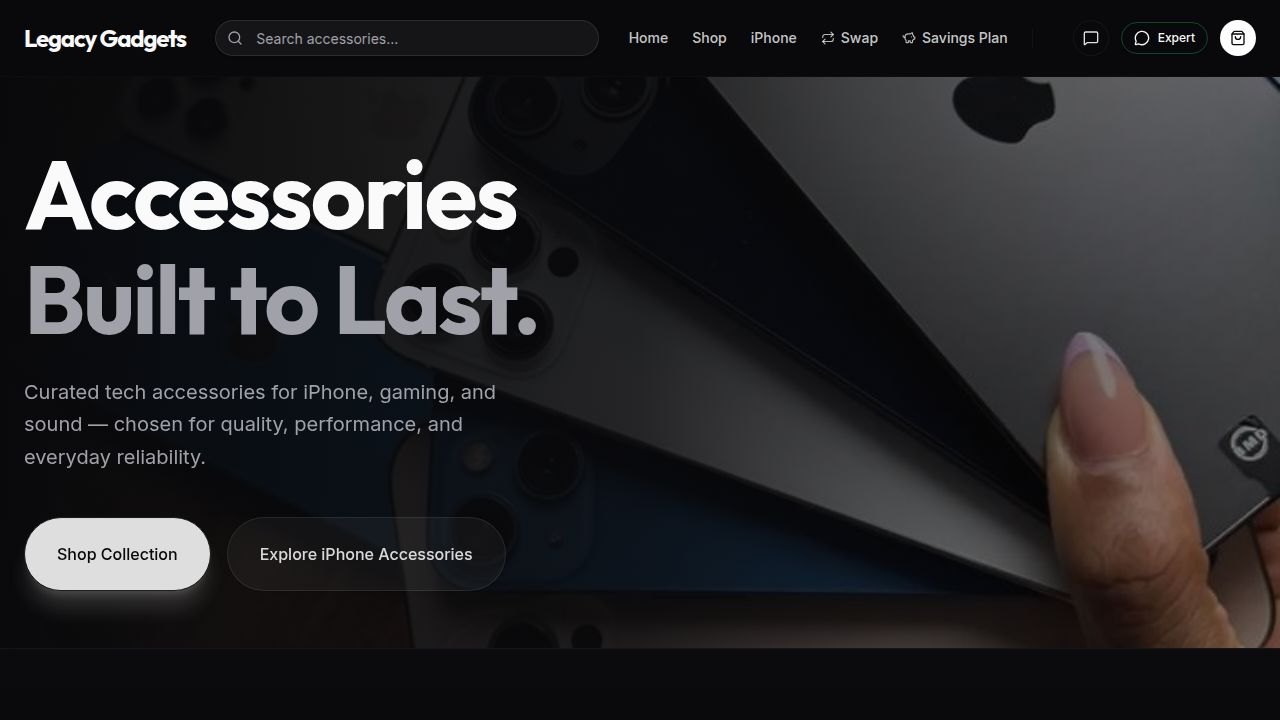
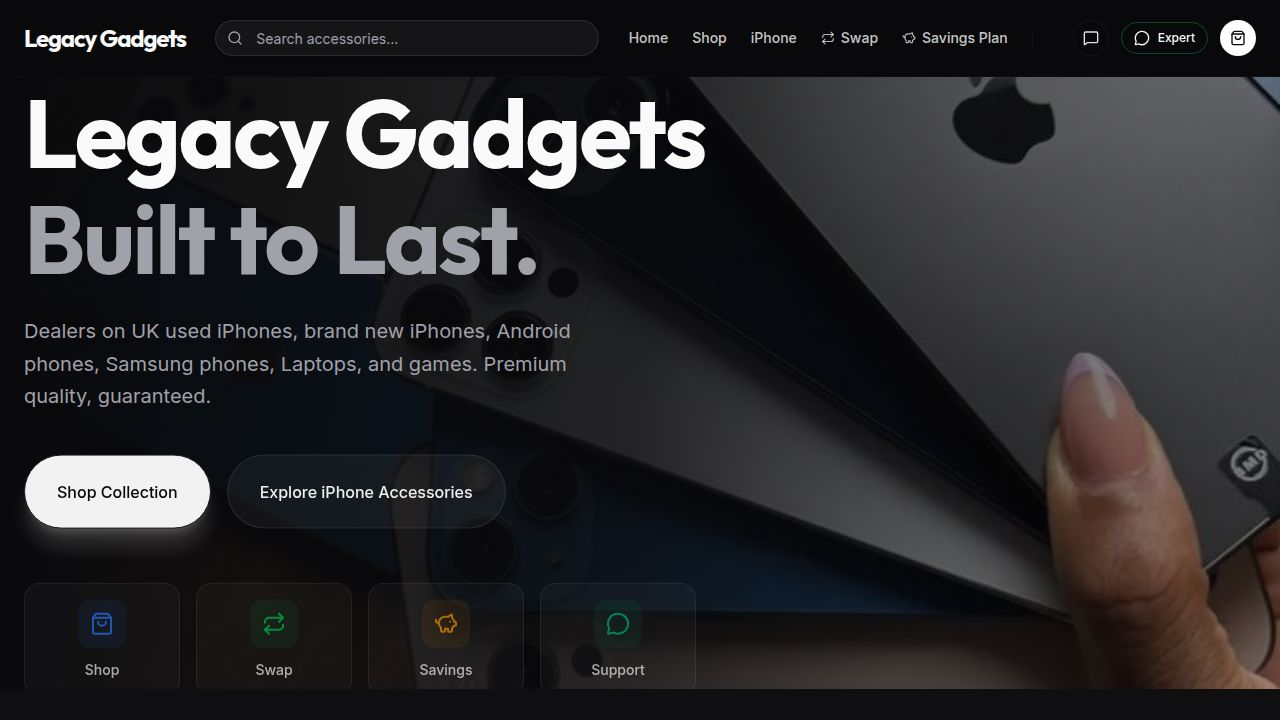
Update website with new product catalog and repair services
Integrates "Legacy Gadget'x" branding and product offerings, including new categories for Smartphones, Laptops, and Games. Adds a dedicated "Legacy iRepairs" section detailing various repair services like screen, battery, charging IC, water damage, and connectivity fixes, along with a direct booking link. Updates the hero section to reflect the expanded product range and reorders homepage elements to place product categories and repair services prominently.

Replit-Commit-Author: Agent
Replit-Commit-Session-Id: d1ffd576-3df7-4dd1-b622-f8f9161c872e
Replit-Commit-Checkpoint-Type: full_checkpoint
Replit-Commit-Event-Id: f8918ec3-b8af-4d76-9b86-5171d2bc4b19
Replit-Commit-Screenshot-Url: https://storage.googleapis.com/screenshot-production-us-central1/31b71921-33f8-4983-a66c-254fb14f6e3a/d1ffd576-3df7-4dd1-b622-f8f9161c872e/qRa5Evk
Replit-Helium-Checkpoint-Created: true

diff --git a/client/src/components/home/IRepairs.tsx b/client/src/components/home/IRepairs.tsx
@@ -1,0 +1,79 @@
+import { motion } from "framer-motion";
+import { CheckCircle2, Wrench, Zap, Thermometer, Droplets, Wifi } from "lucide-react";
+
+export function IRepairs() {
+  const services = [
+    { 
+      title: "Screen & Battery", 
+      desc: "Original quality screen, battery, camera & back glass replacement.",
+      icon: Wrench 
+    },
+    { 
+      title: "Charging IC", 
+      desc: "Expert repair for iPhones that won't charge or have power issues.",
+      icon: Zap 
+    },
+    { 
+      title: "Boot Issues", 
+      desc: "Stuck on Apple logo or dead device recovery services.",
+      icon: CheckCircle2 
+    },
+    { 
+      title: "Overheating", 
+      desc: "Diagnosis and fix for devices running unusually hot.",
+      icon: Thermometer 
+    },
+    { 
+      title: "Water Damage", 
+      desc: "Advanced cleaning and component repair for liquid exposure.",
+      icon: Droplets 
+    },
+    { 
+      title: "Connectivity", 
+      desc: "Repair for No Network, Wi-Fi, or Bluetooth connectivity problems.",
+      icon: Wifi 
+    },
+  ];
+
+  return (
+    <section className="py-24 bg-zinc-950 text-white relative overflow-hidden">
+      <div className="container mx-auto px-4 relative z-10">
+        <div className="text-center max-w-3xl mx-auto mb-16">
+          <h2 className="text-primary font-bold tracking-widest text-sm uppercase mb-4">Legacy iRepairs</h2>
+          <h3 className="text-4xl md:text-5xl font-heading font-bold mb-6">Expert Device Restoration</h3>
+          <p className="text-zinc-400 text-lg">
+            Don't let a broken device slow you down. Our certified technicians handle everything from simple screen swaps to complex motherboard repairs.
+          </p>
+        </div>
+
+        <div className="grid grid-cols-1 md:grid-cols-2 lg:grid-cols-3 gap-6">
+          {services.map((service, index) => (
+            <motion.div 
+              key={index}
+              initial={{ opacity: 0, y: 20 }}
+              whileInView={{ opacity: 1, y: 0 }}
+              viewport={{ once: true }}
+              transition={{ delay: index * 0.1 }}
+              className="p-8 rounded-2xl bg-white/5 border border-white/10 hover:border-primary/50 transition-colors group"
+            >
+              <div className="w-12 h-12 rounded-xl bg-primary/10 flex items-center justify-center mb-6 group-hover:scale-110 transition-transform">
+                <service.icon className="text-primary w-6 h-6" />
+              </div>
+              <h4 className="text-xl font-bold mb-3">{service.title}</h4>
+              <p className="text-zinc-400 leading-relaxed">{service.desc}</p>
+            </motion.div>
+          ))}
+        </div>
+
+        <div className="mt-16 text-center">
+          <a href="https://wa.me/1234567890" className="inline-flex items-center gap-2 bg-primary text-primary-foreground px-8 py-4 rounded-full font-bold hover:opacity-90 transition-opacity">
+            Book a Repair Now
+          </a>
+        </div>
+      </div>
+      
+      {/* Background decoration */}
+      <div className="absolute -top-24 -right-24 w-96 h-96 bg-primary/10 rounded-full blur-[120px] pointer-events-none" />
+    </section>
+  );
+}

diff --git a/client/src/components/home/Hero.tsx b/client/src/components/home/Hero.tsx
@@ -41,9 +41,9 @@ export function Hero() {
             initial={{ opacity: 0, y: 20 }}
             animate={{ opacity: 1, y: 0 }}
             transition={{ duration: 0.6, delay: 0.2 }}
-            className="text-lg md:text-xl text-muted-foreground mb-10 max-w-lg leading-relaxed"
+            className="text-lg md:text-xl text-muted-foreground mb-10 max-w-xl leading-relaxed"
           >
-            Curated tech accessories for iPhone, gaming, and sound — chosen for quality, performance, and everyday reliability.
+            Dealers on UK used iPhones, brand new iPhones, Android phones, Samsung phones, Laptops, and games. Premium quality, guaranteed.
           </motion.p>
 
           <motion.div 

diff --git a/client/src/pages/Home.tsx b/client/src/pages/Home.tsx
@@ -8,6 +8,7 @@ import { BrandValues } from "@/components/home/BrandValues";
 import { AccessoryFinder } from "@/components/home/AccessoryFinder";
 import { PersonalizedRecommendations } from "@/components/home/PersonalizedRecommendations";
 import { galleryImages } from "@/lib/data";
+import { IRepairs } from "@/components/home/IRepairs";
 
 function Gallery() {
   return (
@@ -33,9 +34,10 @@ export default function Home() {
       <main>
         <Hero />
         <BestSellers />
+        <CategoryGrid />
+        <IRepairs />
         <TrustSection />
         <AccessoryFinder />
-        <CategoryGrid />
         <PersonalizedRecommendations />
         <Gallery />
         <BrandValues />

diff --git a/client/src/lib/data.ts b/client/src/lib/data.ts
@@ -117,28 +117,23 @@ export const storeImages = {
 
 export const categories = [
   {
-    id: 'iphone',
-    name: 'iPhone Accessories',
+    id: 'phones',
+    name: 'Smartphones',
     image: iphoneBlackImg
   },
   {
-    id: 'audio',
-    name: 'Audio & EarPods',
+    id: 'laptops',
+    name: 'Laptops',
     image: headphonesImg
   },
   {
-    id: 'speakers',
-    name: 'Speakers',
-    image: speakerImg
-  },
-  {
     id: 'gaming',
-    name: 'Gaming Accessories',
+    name: 'Games & Consoles',
     image: gamingImg
   },
   {
-    id: 'power',
-    name: 'Power & Charging',
-    image: chargerImg
+    id: 'repairs',
+    name: 'iRepairs',
+    image: storeFrontImg
   }
 ];
